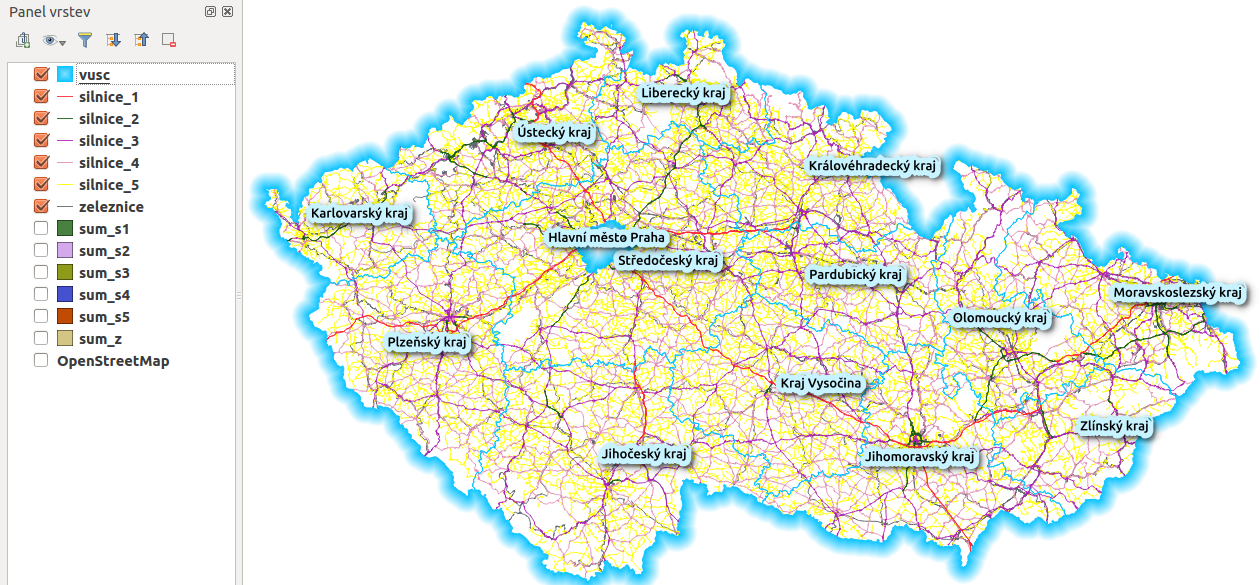
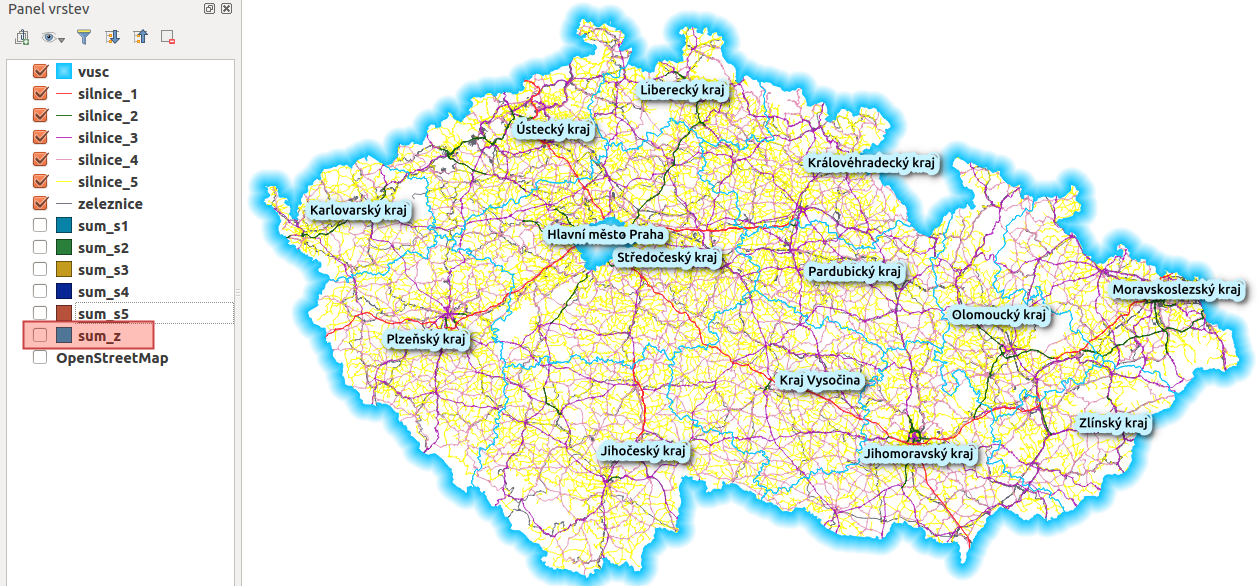
image silnice updated

diff --git a/ruzne/grafy.rst b/ruzne/grafy.rst
@@ -30,9 +30,6 @@ Medzi ďalšie možnosti patrí tvorba diagramov a grafov. QGIS nám umožňuje 
 základe dát vytvárať či už koláčové, textové alebo stĺpcové diagramy a následne 
 ich zobrazovať v mape.
 
-Mapa celkovej kriminality krajov ČR
-===================================
-    
 Do mapového okna pridáme vektorovú vrstvu vyšších územných samosprávnych celkov
 (:map:`vusc_krim`). Nastavíme štýl, napr. na :num:`#cr-styl` je typ vrstvy 
 symbolu nastavený na ``Shapeburst fill``, ide o ``Prevrácené polygóny`` s farbami
@@ -47,6 +44,12 @@ obalová zóna s veľkosťou ``3 mm`` a umiestnenie je okolo centroidu.
    :class: middle
         
    Vyššie územné samosprávne celky Českej republiky.
+
+Mapy kriminality krajov ČR
+==========================
+
+Záložka |diagram| :sup:`Diagramy`
+^^^^^^^^^^^^^^^^^^^^^^^^^^^^^^^^
 
 Pravým kliknutím na mapu v paneli vrstiev zvolíme 
 :item:`Otevrít atributovou tabulku` a prezrieme stĺpce a hodnoty v atribútovej 
@@ -78,6 +81,10 @@ takejto reprezentácie dát (zobrazujeme len jeden atribút).
    :class: middle
         
    Celková kriminalita vyšších územných samosprávnych celkov Českej republiky.
+
+
+Zásuvný modul Qgis2threejs
+^^^^^^^^^^^^^^^^^^^^^^^^^^
 
 Ďalším spôsobom je zobrazenie pomocou pluginu *QGIS2threejs*. Pôjde o informácie
 o počte vrážd pre jednotlivé samosprávne kraje (atribút :dbcolumn:`krim_2015v`)
@@ -116,4 +123,30 @@ transparentnosť ako vrstiev, tak pozadia, viď. :num:`cr-graf-g2t`.
         
    Počet vrážd pre vyššie územné samosprávne celky Českej republiky.
 
+Štatistika dopravných prostriedkov
+==================================
+
+Do mapového okna pridáme vrstvy ako železníce (:map:`zeleznice`), 
+diaľnice (:map:`silnice_1`), rýchlostné cesty (:map:`silnice_2`), cesty 1. a 2. 
+triedy (:map:`silnice_3`, map:`silnice_4` a :map:`silnice_5`). 
+Skontrolujeme či všetky vrstvy majú rovnaký súradnicový systém, t.j. 
+:menuselection:`Vlastnosti --> Obecné --> Souradnicový referenčný systém`). 
+Potom z menu lišty vyberieme :menuselection:`Vektor --> Analytické nástroje -->
+Součet délek čar`. Otvorí sa dialógové okno, kde nastavíme vstupnú polygónovú
+a líniovú vektorovú vrstvu a názov výstupnej vrstvy (:num:`#soucet-silnice-okno`). 
+Urobíme to pre všetky dopravné komunikácie, viď. :num:`cr-silnice`. 
+
+.. _soucet-silnice-okno:
+
+.. figure:: images/soucet_silnice_okno.png
+   :scale: 70%
+        
+   Dialógové okno pre sčítanie dĺžky dopravných komunikácií v rámci krajov.
+
+.. _cr-silnice:
+
+.. figure:: images/cr_silnice.png
+   :class: middle
+        
+   Vybrané dopravné cesty Českej republiky a panel vrstiev po sčítaní ich dĺžok.
 
